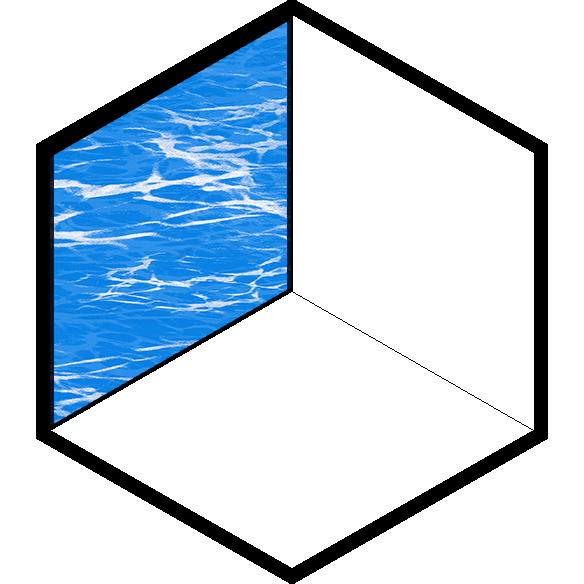
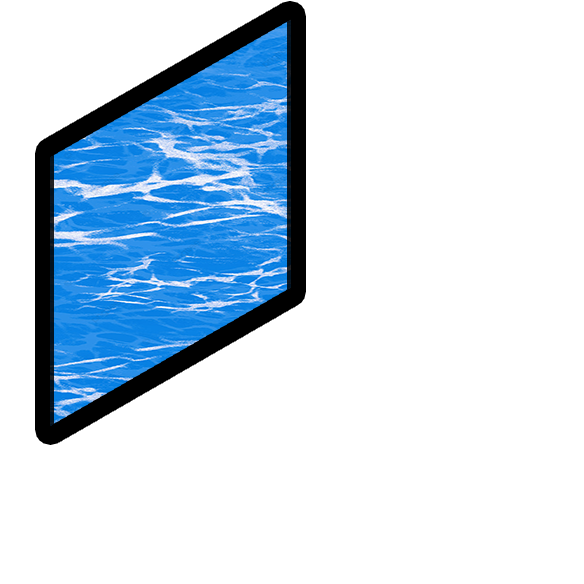
Fix partial tiles

Changed region(s): [[0.0616, 0.0, 0.9555, 1.0]]

diff --git a/tile_generator.py b/tile_generator.py
@@ -41,6 +41,8 @@ def update_visibility(psd: PSDImage, visible_layers: list[str]):
 
 
 def get_layer_name(item_name: str, ordinal: int):
+    if item_name == "НЕТ":
+        return item_name
     return f"{item_name}_{ordinal}"
 
 
@@ -55,7 +57,6 @@ def generate_tile(json_data, guid, visible_layers):
     if guid is None:
         return
 
-
     psd = PSDImage.open('assets/tile_template.psd')
 
     update_visibility(psd, visible_layers)
@@ -69,7 +70,7 @@ def generate_tile(json_data, guid, visible_layers):
     if use_local_images:
         image_game_url = os.path.abspath(image_local_path)
     else:
-        image_game_url = "https://raw.githubusercontent.com/EgoTheUndead/Edge-of-Discord/main/output/tiles/"+image_name
+        image_game_url = "https://raw.githubusercontent.com/EgoTheUndead/Edge-of-Discord/main/output/tiles/" + image_name
 
     target_object = tabletop_utils.get_object_by_guid(json_data, guid)
     target_object["CustomImage"]["ImageURL"] = image_game_url
@@ -82,22 +83,30 @@ def process_worksheet(json_data, worksheet):
             first_line = False
             continue
 
-        visible_layers = ["ОСНОВА", "СЕКЦИИ", "ЛАНДШАФТЫ", "МЕСТА", "ОБЪЕКТЫ", "СТОЛИЦЫ"]
-
+        visible_layers = ["ЛАНДШАФТЫ", "МЕСТА", "ОБЪЕКТЫ", "СТОЛИЦЫ"]
+        visible_zones = []
         guid = row[0].value
-        # tile type and icon
-        visible_layers.append(get_layer_name(row[2].value, 1))
+        # tile(zone) type and icon
+        visible_zones.append(get_layer_name(row[2].value, 1))
         visible_layers.append(get_layer_name(row[3].value, 1))
 
         # tile type and icon
-        visible_layers.append(get_layer_name(row[4].value, 2))
+        visible_zones.append(get_layer_name(row[4].value, 2))
         visible_layers.append(get_layer_name(row[5].value, 2))
 
         # tile type and icon
-        visible_layers.append(get_layer_name(row[6].value, 3))
+        visible_zones.append(get_layer_name(row[6].value, 3))
         visible_layers.append(get_layer_name(row[7].value, 3))
 
+        visible_layers.extend(visible_zones)
+
+        if 'НЕТ' in visible_zones:
+            visible_layers.extend(["ОСНОВА (МИНИ)"])
+        else:
+            visible_layers.extend(["ОСНОВА", "СЕКЦИИ"])
+
         generate_tile(json_data, guid, visible_layers)
+
 
 def process_workbook(filename):
     workbook = openpyxl.load_workbook(filename)
@@ -124,5 +133,5 @@ def process_workbook(filename):
 
 
 if __name__ == "__main__":
-    #process_file('csv_files/continent_port_tiles.csv')
+    # process_file('csv_files/continent_port_tiles.csv')
     process_workbook("tiles.xlsx")
